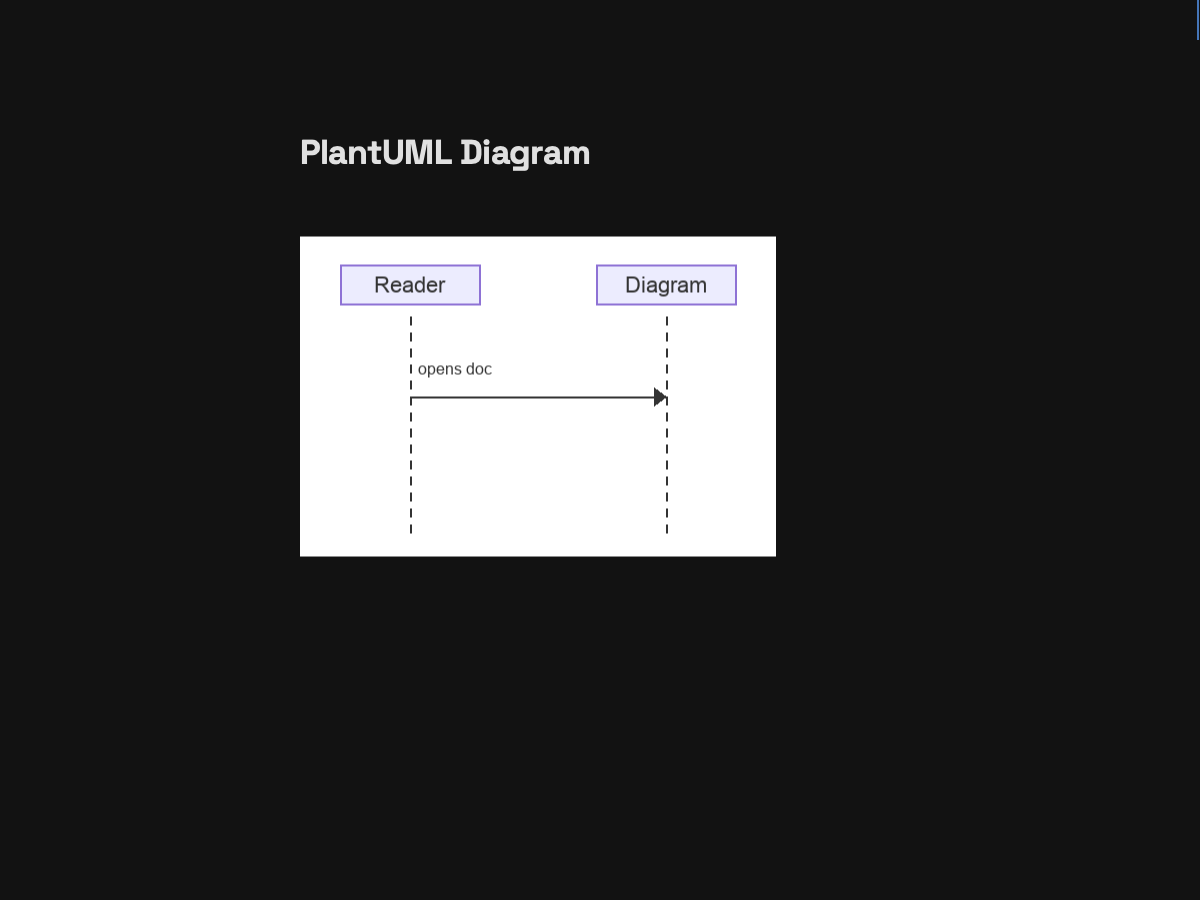
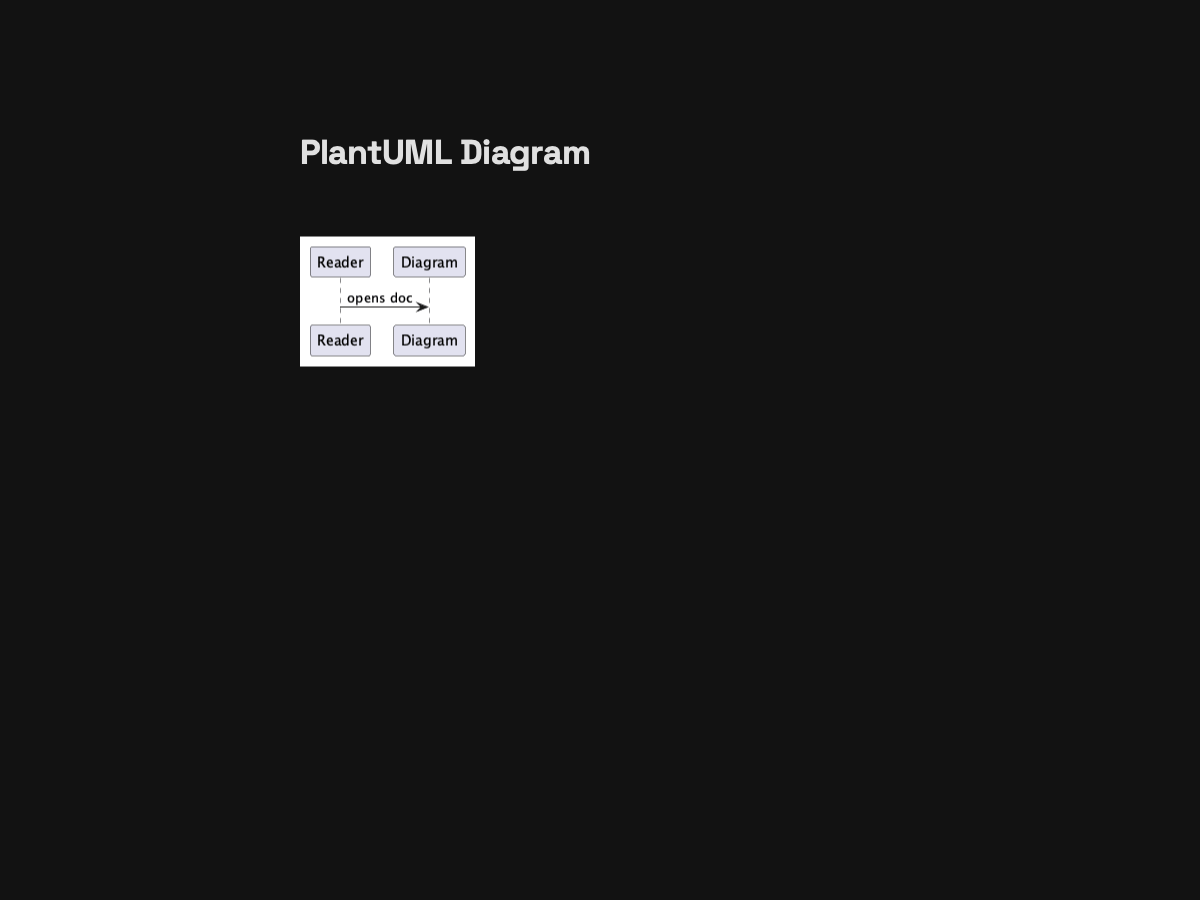
[#328] Real PlantUML renders for all seeds (round-two review)
Owner: the Pillow-mimicked seeds faked PlantUML support. All three
seeds are now genuine PlantUML 1.2026.8 output for the exact fixture
fence sources (plantuml -tpng, the shipped helper's flags), verified
reproducible: scripts/gen-plugin-seeds.py shells out to the real
plantuml binary (fails loudly without it) and regenerates
pixel-identical assets for all three. The fixtures compiled cleanly as
written; only the pixels change.

PlantUML lays sequence diagrams out compactly (tall is 393x511, not a
2080px sheet), so the whole render fits the initial fold: the 700/1400
scrolled frames are removed (700 showed only the bottom footer sliver
plus empty viewport). Complexity coverage stays in the diagrams
themselves: 14 messages across four participants, eight participants
wide.

Suite 436/436 green. No src/ changes: ship binary untouched by this PR.

Changed region(s): [[0.2467, 0.2489, 0.6475, 0.6222], [0.9867, 0.0, 1.0, 0.0311]]

diff --git a/scripts/gen-plugin-seeds.py b/scripts/gen-plugin-seeds.py
@@ -5,14 +5,15 @@ d2 seeds are genuine d2-engine renders of their test_cases/plugin_d2*.md
 fixture fence sources (d2 0.9.0; *_seed functions shell out to the real
 binary and fail loudly without it). Graphviz seeds are genuine dot-engine
 renders of their test_cases/plugin_graphviz*.md fixture fence sources
-(dot 16.0.0; same fail-loudly contract). Remaining seeds are faithful
-static mimics of real renderer output: plantuml draws the fixture's
-diagram (labels mirror the fixture), math/mathjax draw the fixture's
-formula typeset in STIX. Tall/wide companions (*-seed-tall.png,
-*-seed-wide.png) mirror the tall/wide fixtures node-for-node the same
-way; math-seed.png draws the simplified fixture formula,
-*-seed-complex.png the complex companions. Synthetic-but-plausible
-stand-ins (no plantuml/katex binaries in this env); the screenshot
+(dot 16.0.0; same fail-loudly contract). PlantUML seeds are genuine
+PlantUML-engine renders of their test_cases/plugin_plantuml*.md fixture
+fence sources (PlantUML 1.2026.8; same fail-loudly contract). Remaining
+seeds are faithful static mimics of real renderer output: math/mathjax
+draw the fixture's formula typeset in STIX. Tall/wide companions
+(*-seed-tall.png, *-seed-wide.png) mirror the tall/wide fixtures
+node-for-node the same way; math-seed.png draws the simplified fixture
+formula, *-seed-complex.png the complex companions.
+Synthetic-but-plausible stand-ins (no katex binaries in this env); the screenshot
 path proven (stat-exists seed -> ready -> stock image decode) is production,
 per suite practice (cf. scripts/gen-mermaid-seed.py).
 
@@ -104,30 +105,47 @@ def graphviz_seed():
                              ["-Tpng", "SRC", "-o", "OUT"])
 
 
+def _plantuml_render(fixture_md, out_name):
+    # Genuine PlantUML render (1.2026.8). plantuml writes to an output
+    # DIRECTORY (plantuml -tpng -o OUTDIR SRC, the shipped helper's flags),
+    # so render into a temp dir and promote the single PNG. Fails loudly
+    # without the binary.
+    import shutil
+    import subprocess
+    import tempfile
+    root = os.path.dirname(os.path.dirname(os.path.abspath(__file__)))
+    lines = open(os.path.join(root, fixture_md)).read().split('\n')
+    start = next(i for i, l in enumerate(lines)
+                 if l.lstrip().startswith('```') and
+                 l.lstrip()[3:].strip().split(' ')[:1] == ['plantuml'])
+    end = next(i for i in range(start + 1, len(lines))
+               if lines[i].lstrip().startswith('```'))
+    workdir = tempfile.mkdtemp()
+    src = os.path.join(workdir, "fixture.puml")
+    with open(src, 'w') as f:
+        f.write('\n'.join(lines[start + 1:end]) + '\n')
+    outdir = os.path.join(workdir, "out")
+    os.mkdir(outdir)
+    try:
+        r = subprocess.run(["plantuml", "-tpng", "-o", outdir, src],
+                           capture_output=True, text=True)
+    except FileNotFoundError:
+        sys.exit("FAIL: plantuml binary not found (needed for %s)" %
+                 out_name)
+    made = [p for p in os.listdir(outdir) if p.endswith(".png")]
+    if r.returncode != 0 or len(made) != 1:
+        sys.exit("FAIL: plantuml render %s: %s" %
+                 (fixture_md, (r.stderr or '').strip()))
+    out = os.path.join(os.getcwd(), out_name)
+    shutil.move(os.path.join(outdir, made[0]), out)
+    shutil.rmtree(workdir, ignore_errors=True)
+    return Image.open(out), out_name
+
+
 def plantuml_seed():
-    # Fixture: @startuml / Reader -> Diagram : opens doc / @enduml.
-    # Sequence-diagram mimic: participant heads, dashed lifelines, one
-    # message arrow carrying the fixture's label.
-    W, H = 476, 320
-    im = Image.new("RGB", (W, H), BG)
-    d = ImageDraw.Draw(im)
-    font = load_font(ARIAL, 22)
-    font_msg = load_font(ARIAL, 16)
-    p1 = (40, 28, 180, 68)
-    p2 = (296, 28, 436, 68)
-    d.rectangle(p1, fill=FILL, outline=EDGE, width=EDGE_W)
-    d.rectangle(p2, fill=FILL, outline=EDGE, width=EDGE_W)
-    center_text(d, 110, 48, "Reader", font)
-    center_text(d, 366, 48, "Diagram", font)
-    for x in (110, 366):
-        y = 80
-        while y < 300:
-            d.line([(x, y), (x, min(y + 8, 300))], fill=INK, width=2)
-            y += 16
-    d.line([(110, 160), (354, 160)], fill=INK, width=2)
-    d.polygon([(366, 160), (354, 151), (354, 169)], fill=INK)
-    d.text((118, 132), "opens doc", font=font_msg, fill=INK, anchor="lm")
-    return im, "plantuml-seed.png"
+    # Fixture test_cases/plugin_plantuml.md: genuine PlantUML output.
+    return _plantuml_render("test_cases/plugin_plantuml.md",
+                            "plantuml-seed.png")
 
 
 def _typeset(formula_runs, size=44, small=30, pad=28):
@@ -414,112 +432,16 @@ def graphviz_seed_wide():
                              ["-Tpng", "SRC", "-o", "OUT"])
 
 
-# PlantUML tall/wide companions use the sequence-diagram idiom of the base
-# seed (participant heads, dashed lifelines, message arrows): tall is a long
-# 14-message exchange (lifelines run the full height), wide spreads eight
-# participants across the 2000px sheet.
-_PLANT_TALL_MSGS = [
-    ("Reader", "Mmap", "zero-copy open"),
-    ("Mmap", "Blocks", "byte window"),
-    ("Blocks", "Para", "other lines"),
-    ("Para", "Blocks", "styled runs"),
-    ("Blocks", "Para", "cell text"),
-    ("Para", "Mmap", "sized boxes"),
-    ("Mmap", "Reader", "frame ready"),
-    ("Reader", "Blocks", "find query"),
-    ("Blocks", "Para", "match text"),
-    ("Para", "Reader", "match range"),
-    ("Reader", "Mmap", "copy bytes"),
-    ("Mmap", "Blocks", "reindex"),
-    ("Blocks", "Para", "tokenize"),
-    ("Para", "Reader", "await input"),
-]
-_PLANT_TALL_PARTS = ["Reader", "Mmap", "Blocks", "Para"]
-_PLANT_WIDE_PARTS = ["In", "Auth", "Cache", "Plan", "Tok", "Join", "Paint",
-                     "Idle"]
-_PLANT_WIDE_MSGS = [
-    ("In", "Auth", "request"),
-    ("Auth", "Cache", "allow"),
-    ("Cache", "Plan", "miss"),
-    ("Plan", "Tok", "split"),
-    ("Tok", "Join", "runs"),
-    ("Join", "Paint", "draw"),
-    ("Paint", "Idle", "ready"),
-]
-
-
-def _plant_heads(d, parts, x_of, font, top=28, h=40):
-    for p in parts:
-        x = x_of[p]
-        d.rectangle((x - 70, top, x + 70, top + h), fill=FILL,
-                    outline=EDGE, width=EDGE_W)
-        center_text(d, x, top + h // 2, p, font)
-
-
-def _plant_lifeline(d, x, y0, y1):
-    y = y0
-    while y < y1:
-        d.line([(x, y), (x, min(y + 8, y1))], fill=INK, width=2)
-        y += 16
-
-
-def _plant_msg(d, x0, x1, y, label, font_msg):
-    if x1 >= x0:
-        d.line([(x0, y), (x1 - 12, y)], fill=INK, width=2)
-        d.polygon([(x1, y), (x1 - 12, y - 9), (x1 - 12, y + 9)], fill=INK)
-        d.text((x0 + 8, y - 28), label, font=font_msg, fill=INK,
-               anchor="lm")
-    else:
-        d.line([(x0, y), (x1 + 12, y)], fill=INK, width=2)
-        d.polygon([(x1, y), (x1 + 12, y - 9), (x1 + 12, y + 9)], fill=INK)
-        d.text((x1 + 8, y - 28), label, font=font_msg, fill=INK,
-               anchor="lm")
-
-
 def plantuml_seed_tall():
-    # Fixture test_cases/plugin_plantuml_tall.md (14-message exchange
-    # across four participants).
-    W, H = 476, 2080
-    parts = _PLANT_TALL_PARTS
-    xs = [60, 180, 300, 420]
-    x_of = dict(zip(parts, xs))
-    im = Image.new("RGB", (W, H), BG)
-    d = ImageDraw.Draw(im)
-    font = load_font(ARIAL, 16)
-    font_msg = load_font(ARIAL, 13)
-    for p in parts:
-        x = x_of[p]
-        d.rectangle((x - 48, 28, x + 48, 68), fill=FILL,
-                    outline=EDGE, width=EDGE_W)
-        center_text(d, x, 48, p, font)
-    for x in xs:
-        _plant_lifeline(d, x, 80, H - 24)
-    y = 200
-    for a, b, label in _PLANT_TALL_MSGS:
-        _plant_msg(d, x_of[a], x_of[b], y, label, font_msg)
-        y += 130
-    return im, "plantuml-seed-tall.png"
+    # Fixture test_cases/plugin_plantuml_tall.md: genuine PlantUML output.
+    return _plantuml_render("test_cases/plugin_plantuml_tall.md",
+                            "plantuml-seed-tall.png")
 
 
 def plantuml_seed_wide():
-    # Fixture test_cases/plugin_plantuml_wide.md (eight participants).
-    W, H = 2000, 600
-    parts = _PLANT_WIDE_PARTS
-    n = len(parts)
-    xs = [110 + i * (1780 // (n - 1)) for i in range(n)]
-    x_of = dict(zip(parts, xs))
-    im = Image.new("RGB", (W, H), BG)
-    d = ImageDraw.Draw(im)
-    font = load_font(ARIAL, 22)
-    font_msg = load_font(ARIAL, 16)
-    _plant_heads(d, parts, x_of, font)
-    for x in xs:
-        _plant_lifeline(d, x, 80, H - 24)
-    y = 190
-    for a, b, label in _PLANT_WIDE_MSGS:
-        _plant_msg(d, x_of[a], x_of[b], y, label, font_msg)
-        y += 56
-    return im, "plantuml-seed-wide.png"
+    # Fixture test_cases/plugin_plantuml_wide.md: genuine PlantUML output.
+    return _plantuml_render("test_cases/plugin_plantuml_wide.md",
+                            "plantuml-seed-wide.png")
 
 
 def math_seed_complex():

diff --git a/test_cases/plugin_plantuml_tall.md b/test_cases/plugin_plantuml_tall.md
@@ -1,0 +1,24 @@
+# Tall PlantUML Diagram
+
+```plantuml
+@startuml
+participant Reader
+participant Mmap
+participant Blocks
+participant Para
+Reader -> Mmap: zero-copy open
+Mmap -> Blocks: byte window
+Blocks -> Para: other lines
+Para -> Blocks: styled runs
+Blocks -> Para: cell text
+Para -> Mmap: sized boxes
+Mmap -> Reader: frame ready
+Reader -> Blocks: find query
+Blocks -> Para: match text
+Para -> Reader: match range
+Reader -> Mmap: copy bytes
+Mmap -> Blocks: reindex
+Blocks -> Para: tokenize
+Para -> Reader: await input
+@enduml
+```

diff --git a/test_cases/plugin_plantuml_wide.md b/test_cases/plugin_plantuml_wide.md
@@ -1,0 +1,21 @@
+# Wide PlantUML Diagram
+
+```plantuml
+@startuml
+participant In
+participant Auth
+participant Cache
+participant Plan
+participant Tok
+participant Join
+participant Paint
+participant Idle
+In -> Auth: request
+Auth -> Cache: allow
+Cache -> Plan: miss
+Plan -> Tok: split
+Tok -> Join: runs
+Join -> Paint: draw
+Paint -> Idle: ready
+@enduml
+```
